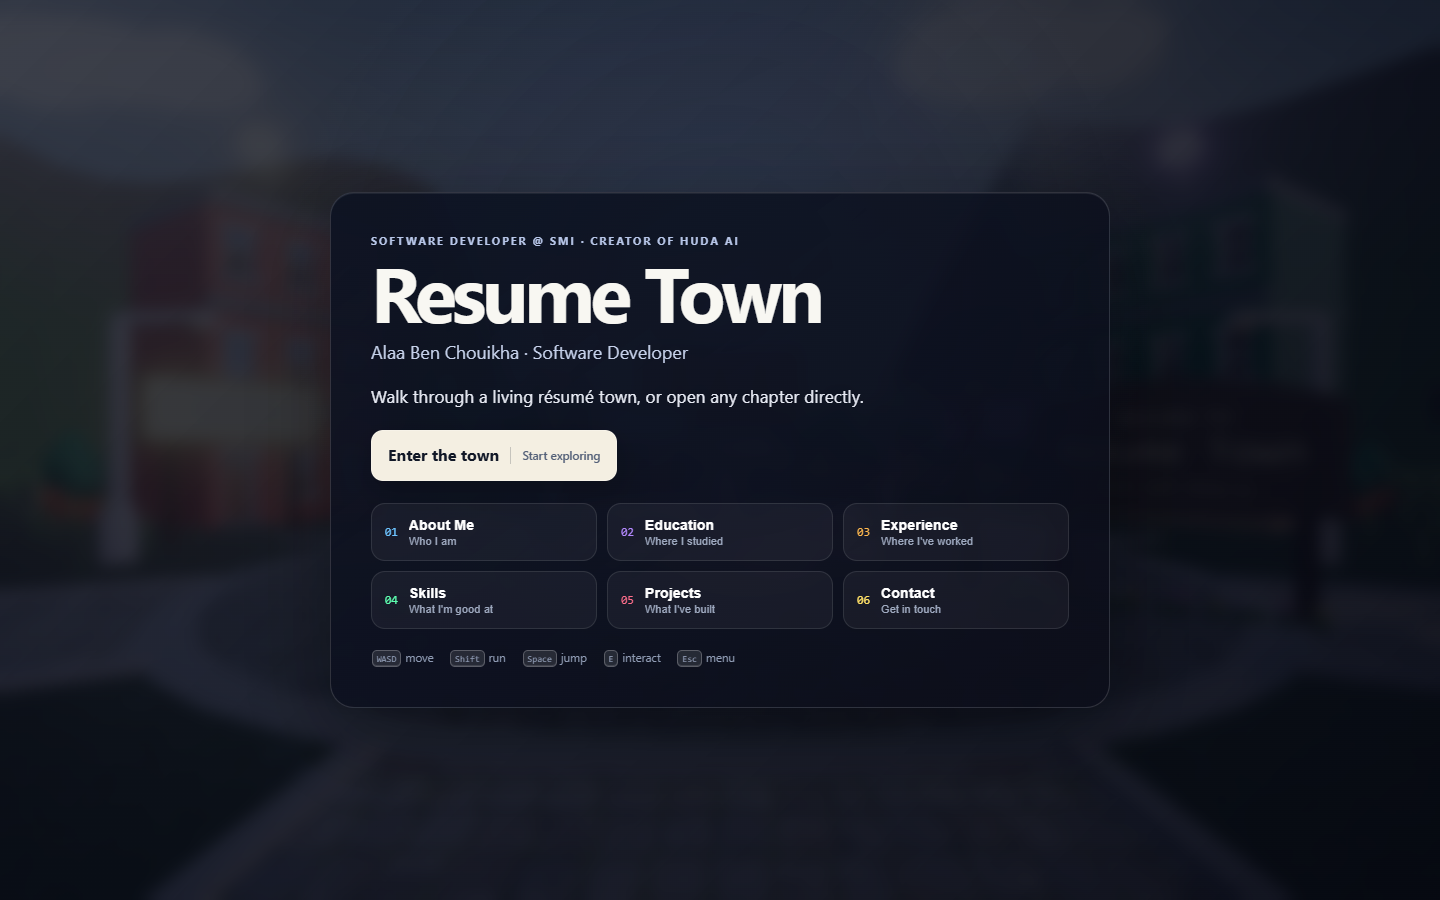
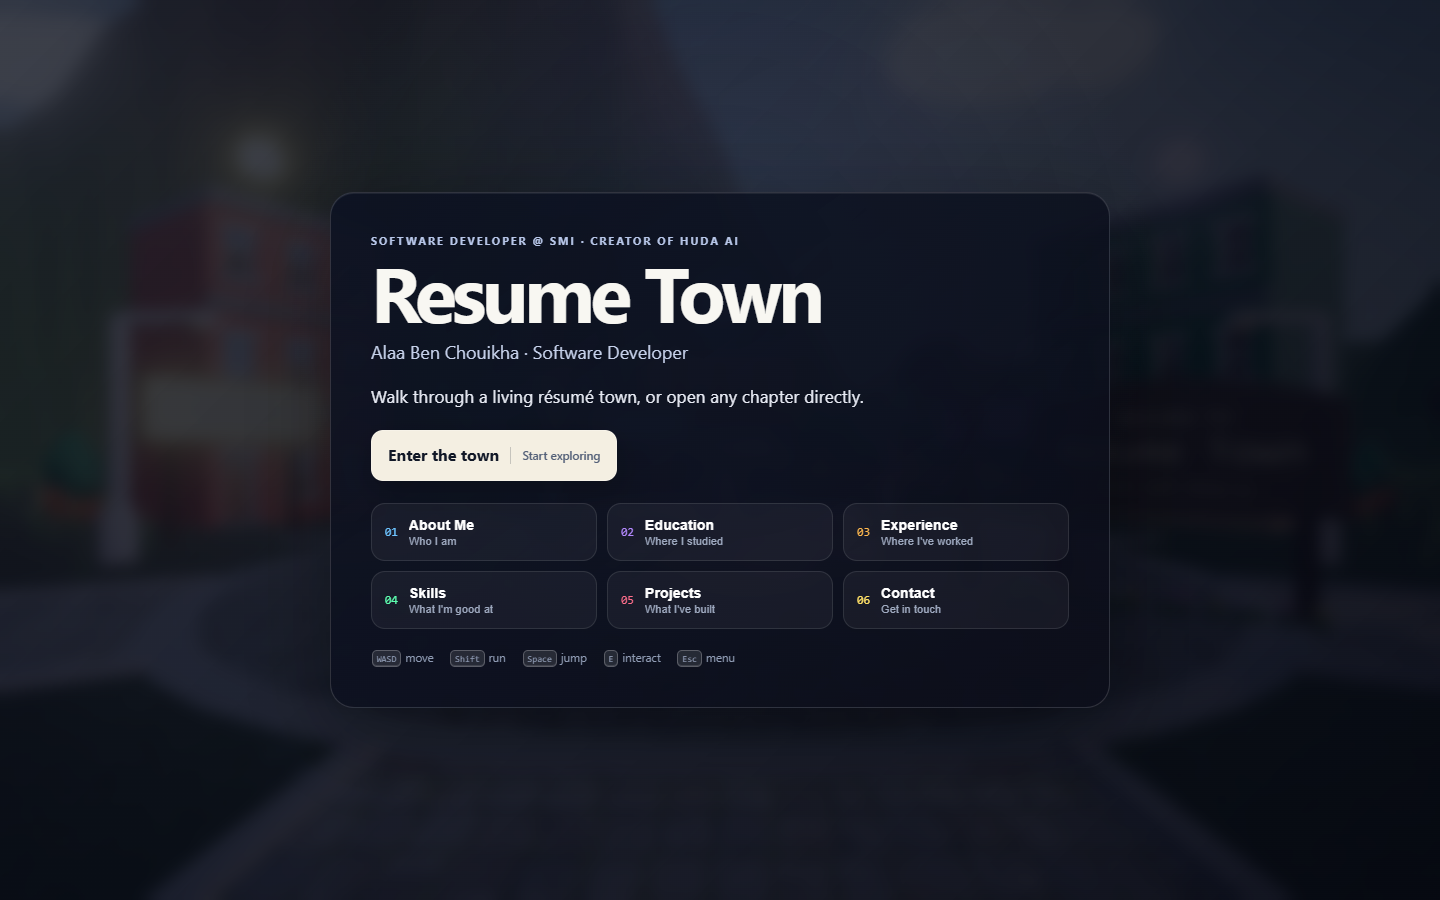
Truly fix mountains and window rain/snow
- Mountains: rebuild with distinct squared-sine peaks + jagged ridged detail
  for a real range silhouette; snow only on the top ~20% and muted (#b9c2d2)
  so the bloom pass no longer blows it into a white haze; green foothills.
- WindowGlass: replace the blocky rain blocks with thin soft vertical streaks,
  and add drifting snow dots; split uRain/uSnow uniforms.

Changed region(s): [[0.0312, 0.0, 0.3438, 0.1867]]

diff --git a/src/components/Mountains.tsx b/src/components/Mountains.tsx
@@ -3,24 +3,28 @@ import * as THREE from "three";
 import { GROUND_RADIUS } from "./Ground";
 
 // Overlaps slightly under the grass disc so the terrain is continuous, with the
-// inner ring at ~0 height so there's no visible seam. The player's roam limit
+// inner ring near 0 height so there's no visible seam. The player's roam limit
 // (TOWN_RADIUS = 34) is well inside the base, so it's never reachable.
 const INNER_RADIUS = GROUND_RADIUS - 3;
-const OUTER_RADIUS = GROUND_RADIUS + 150;
-const ANGULAR_SEGMENTS = 150;
-const RADIAL_SEGMENTS = 22;
-const PEAK_HEIGHT = 44;
+const OUTER_RADIUS = GROUND_RADIUS + 170;
+const ANGULAR_SEGMENTS = 180;
+const RADIAL_SEGMENTS = 26;
+const PEAK_HEIGHT = 50;
 
-// A few bold peaks around the ring (macro), medium ridges, and sharp ridged
-// detail — a dramatic stylized skyline instead of uniform cones.
+const up = (v: number) => Math.max(0, v);
+
+// Distinct peaks (squared sine humps rising from low valleys) plus jagged
+// ridged detail — a real mountain-range silhouette instead of a smooth dome.
 function ridgeHeight(angle: number, t: number) {
-  const macro = Math.sin(angle * 1.5 + 0.4) * 0.52 + Math.sin(angle * 2.6 + 2.0) * 0.34;
-  const med = Math.sin(angle * 5.2 + 1.0) * 0.18 + Math.sin(angle * 8.1 + 3.3) * 0.1;
-  const sharp = (1 - Math.abs(Math.sin(angle * 3.3 + 0.7))) * 0.4; // ridged
-  let shaped = 0.5 + macro + med + sharp;
-  shaped = Math.max(shaped, 0.06);
-  // rise quickly from the inner seam; far ridges a touch lower for depth
-  const rise = THREE.MathUtils.smoothstep(t, 0, 0.1) * (1 - 0.18 * THREE.MathUtils.smoothstep(t, 0.65, 1));
+  const peaks =
+    up(Math.sin(angle * 2.0 + 0.5)) ** 2 * 0.62 +
+    up(Math.sin(angle * 3.3 + 2.5)) ** 2 * 0.5 +
+    up(Math.sin(angle * 5.1 + 4.0)) ** 2 * 0.34;
+  const jag =
+    (1 - Math.abs(Math.sin(angle * 11 + 1.0))) * 0.11 +
+    (1 - Math.abs(Math.sin(angle * 19 + 3.0))) * 0.06;
+  const shaped = 0.14 + peaks + jag; // valleys dip low, peaks rise high
+  const rise = THREE.MathUtils.smoothstep(t, 0, 0.12) * (1 - 0.15 * THREE.MathUtils.smoothstep(t, 0.7, 1));
   return shaped * rise * PEAK_HEIGHT;
 }
 
@@ -30,11 +34,12 @@ export default function Mountains() {
     const colors: number[] = [];
     const indices: number[] = [];
 
-    const grass = new THREE.Color("#4f7a44");
-    const rock = new THREE.Color("#746d63");
-    const snow = new THREE.Color("#f3f6ff");
+    const grass = new THREE.Color("#4c7340");
+    const rock = new THREE.Color("#6b6660");
+    // muted snow kept dim enough that the bloom pass doesn't blow it out
+    const snow = new THREE.Color("#b9c2d2");
     const tmp = new THREE.Color();
-    const MAX_H = PEAK_HEIGHT * 1.7;
+    const MAX_H = PEAK_HEIGHT * 1.6;
 
     for (let r = 0; r <= RADIAL_SEGMENTS; r++) {
       const t = r / RADIAL_SEGMENTS;
@@ -45,9 +50,9 @@ export default function Mountains() {
         positions.push(Math.sin(angle) * radius, height, Math.cos(angle) * radius);
 
         const hn = height / MAX_H;
-        // green base -> rock -> strong white snow caps on the upper slopes
-        if (hn < 0.3) tmp.copy(grass).lerp(rock, THREE.MathUtils.smoothstep(hn, 0.12, 0.3));
-        else tmp.copy(rock).lerp(snow, THREE.MathUtils.smoothstep(hn, 0.32, 0.52));
+        // green foothills -> rock -> snow only on the top ~20% of the range
+        if (hn < 0.4) tmp.copy(grass).lerp(rock, THREE.MathUtils.smoothstep(hn, 0.18, 0.42));
+        else tmp.copy(rock).lerp(snow, THREE.MathUtils.smoothstep(hn, 0.6, 0.82));
         colors.push(tmp.r, tmp.g, tmp.b);
       }
     }
@@ -70,7 +75,7 @@ export default function Mountains() {
 
   return (
     <mesh geometry={geometry}>
-      <meshStandardMaterial vertexColors flatShading roughness={0.96} metalness={0} envMapIntensity={0.2} fog />
+      <meshStandardMaterial vertexColors flatShading roughness={1} metalness={0} envMapIntensity={0.1} fog />
     </mesh>
   );
 }

diff --git a/src/components/WindowGlass.tsx b/src/components/WindowGlass.tsx
@@ -1,33 +1,52 @@
 import { useFrame } from "@react-three/fiber";
 import * as THREE from "three";
 import { MeshBasicNodeMaterial } from "three/webgpu";
-import { uniform, uv, mix, vec3, time, fract, floor, smoothstep } from "three/tsl";
+import { uniform, uv, mix, vec3, time, fract, floor, smoothstep, step } from "three/tsl";
 import { atm } from "../atmosphere";
 
 // The interior "window" glass shows the real outside: the live sky gradient
-// (so it tracks the day/night cycle and overcast color) with rain streaks
-// running down the pane when it's raining. All windows share one material.
+// (tracking the day/night cycle and overcast color), with thin rain streaks or
+// drifting snow when the weather calls for it. All windows share one material.
 const uHorizon = uniform(new THREE.Color("#f0ad7c"));
 const uZenith = uniform(new THREE.Color("#6f7bb8"));
 const uRain = uniform(0);
+const uSnow = uniform(0);
 
 const material = new MeshBasicNodeMaterial();
 {
   const vy = uv().y.clamp(0, 1);
   const sky = mix(uHorizon, uZenith, vy);
-  // per-column rain streaks sliding down the glass at varied speeds
-  const col = floor(uv().x.mul(16));
-  const speed = fract(col.mul(0.37)).mul(0.6).add(0.5);
-  const d = fract(uv().y.add(time.mul(speed.negate())).mul(3.0));
-  const streak = smoothstep(0, 0.1, d).mul(smoothstep(1.0, 0.72, d));
-  material.colorNode = mix(sky, vec3(0.82, 0.88, 0.97), streak.mul(0.45).mul(uRain));
+
+  // --- rain: thin near-vertical streaks falling at varied speeds ---
+  const rCol = floor(uv().x.mul(26));
+  const rActive = step(0.45, fract(rCol.mul(0.613)));
+  const rCenter = fract(uv().x.mul(26));
+  const rLine = smoothstep(0.44, 0.5, rCenter).mul(smoothstep(0.56, 0.5, rCenter));
+  const rSpeed = fract(rCol.mul(0.37)).mul(1.0).add(1.8);
+  const rFall = fract(uv().y.mul(1.4).add(time.mul(rSpeed)));
+  const rDash = smoothstep(0.0, 0.06, rFall).mul(smoothstep(0.45, 0.12, rFall));
+  const rainMask = rLine.mul(rActive).mul(rDash).mul(uRain).mul(0.6);
+
+  // --- snow: small soft dots drifting down ---
+  const sX = uv().x.mul(13);
+  const sCol = floor(sX);
+  const sSpeed = fract(sCol.mul(0.53)).mul(0.4).add(0.25);
+  const sY = fract(uv().y.mul(9).add(time.mul(sSpeed)).add(fract(sCol.mul(1.7))));
+  const sCx = fract(sX);
+  const sDotX = smoothstep(0.32, 0.5, sCx).mul(smoothstep(0.68, 0.5, sCx));
+  const sDotY = smoothstep(0.0, 0.18, sY).mul(smoothstep(0.36, 0.18, sY));
+  const snowMask = sDotX.mul(sDotY).mul(uSnow);
+
+  const withRain = mix(sky, vec3(0.78, 0.85, 0.95), rainMask);
+  material.colorNode = mix(withRain, vec3(0.97, 0.98, 1.0), snowMask);
 }
 
 export default function WindowGlass() {
   useFrame(() => {
     (uHorizon.value as THREE.Color).copy(atm.skyHorizon);
     (uZenith.value as THREE.Color).copy(atm.skyZenith);
-    uRain.value = Math.max(atm.rain, atm.snow * 0.4);
+    uRain.value = atm.rain;
+    uSnow.value = atm.snow;
   });
 
   return (
